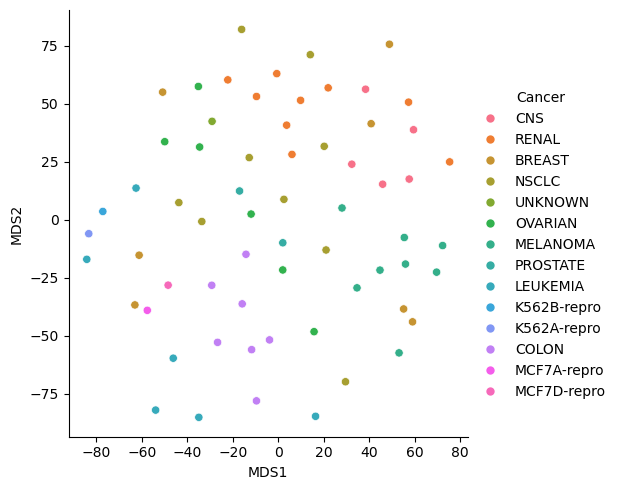
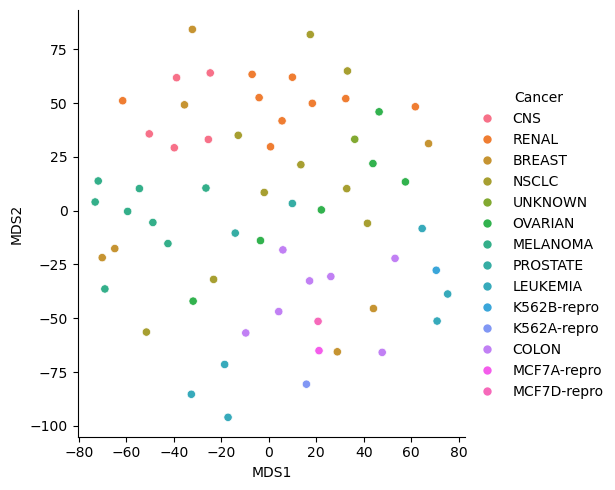
Tried scaling the data before MDS

diff --git a/docs/other-topics.html b/docs/other-topics.html
@@ -198,10 +198,7 @@ code span.wa { color: #60a0b0; font-weight: bold; font-style: italic; } /* Warni
 <ul>
 <li class="chapter" data-level="5.1.1" data-path="other-topics.html"><a href="other-topics.html#k-nn-in-python"><i class="fa fa-check"></i><b>5.1.1</b> K-nn in Python</a></li>
 </ul></li>
-<li class="chapter" data-level="5.2" data-path="other-topics.html"><a href="other-topics.html#mds"><i class="fa fa-check"></i><b>5.2</b> MDS</a>
-<ul>
-<li class="chapter" data-level="5.2.1" data-path="other-topics.html"><a href="other-topics.html#mds-in-python"><i class="fa fa-check"></i><b>5.2.1</b> MDS in Python</a></li>
-</ul></li>
+<li class="chapter" data-level="5.2" data-path="other-topics.html"><a href="other-topics.html#mds"><i class="fa fa-check"></i><b>5.2</b> MDS</a></li>
 </ul></li>
 <li class="divider"></li>
 <li><a href="https://github.com/rstudio/bookdown" target="blank">Published with bookdown</a></li>
@@ -749,40 +746,70 @@ div.sk-label-container:hover .sk-estimator-doc-link.fitted:hover,
 <span id="cb16-4"><a href="other-topics.html#cb16-4" tabindex="-1"></a>graph.mds<span class="sc">$</span>MDS2<span class="ot">=</span><span class="fu">as.numeric</span>(graph.mds<span class="sc">$</span>MDS2)</span>
 <span id="cb16-5"><a href="other-topics.html#cb16-5" tabindex="-1"></a><span class="fu">ggplot</span>(graph.mds,<span class="fu">aes</span>(<span class="at">x=</span>MDS1,<span class="at">y=</span>MDS2,<span class="at">color=</span>cancer))<span class="sc">+</span><span class="fu">geom_point</span>()<span class="sc">+</span><span class="fu">labs</span>(<span class="at">y=</span><span class="st">&quot;MDS2&quot;</span>,<span class="at">x=</span><span class="st">&quot;MDS1&quot;</span>,<span class="at">title=</span><span class="st">&quot;non-metric MDS visualization&quot;</span>)</span></code></pre></div>
 <p><img src="bookdownproj_files/figure-html/MDS-4.png" width="672" /></p>
-<div class="sourceCode" id="cb17"><pre class="sourceCode r"><code class="sourceCode r"><span id="cb17-1"><a href="other-topics.html#cb17-1" tabindex="-1"></a>labs_NCI60<span class="ot">=</span>NCI60<span class="sc">$</span>labs</span></code></pre></div>
-<div id="mds-in-python" class="section level3 hasAnchor" number="5.2.1">
-<h3><span class="header-section-number">5.2.1</span> MDS in Python<a href="other-topics.html#mds-in-python" class="anchor-section" aria-label="Anchor link to header"></a></h3>
-<div class="sourceCode" id="cb18"><pre class="sourceCode python"><code class="sourceCode python"><span id="cb18-1"><a href="other-topics.html#cb18-1" tabindex="-1"></a><span class="im">from</span> sklearn.manifold <span class="im">import</span> MDS</span>
-<span id="cb18-2"><a href="other-topics.html#cb18-2" tabindex="-1"></a><span class="im">import</span> matplotlib.pyplot <span class="im">as</span> plt</span>
-<span id="cb18-3"><a href="other-topics.html#cb18-3" tabindex="-1"></a><span class="im">import</span> pandas <span class="im">as</span> pd</span>
-<span id="cb18-4"><a href="other-topics.html#cb18-4" tabindex="-1"></a><span class="im">import</span> seaborn <span class="im">as</span> sns</span>
-<span id="cb18-5"><a href="other-topics.html#cb18-5" tabindex="-1"></a></span>
-<span id="cb18-6"><a href="other-topics.html#cb18-6" tabindex="-1"></a>NCI60_py<span class="op">=</span>r.ex_MDS</span>
-<span id="cb18-7"><a href="other-topics.html#cb18-7" tabindex="-1"></a>NCI60_labs<span class="op">=</span>r.labs_NCI60</span>
-<span id="cb18-8"><a href="other-topics.html#cb18-8" tabindex="-1"></a>labs<span class="op">=</span>pd.DataFrame(NCI60_labs,columns<span class="op">=</span>[<span class="st">&#39;Cancer&#39;</span>])</span>
-<span id="cb18-9"><a href="other-topics.html#cb18-9" tabindex="-1"></a></span>
-<span id="cb18-10"><a href="other-topics.html#cb18-10" tabindex="-1"></a>mds_py<span class="op">=</span>MDS()</span>
-<span id="cb18-11"><a href="other-topics.html#cb18-11" tabindex="-1"></a>x_metric<span class="op">=</span>mds_py.fit_transform(NCI60_py)</span>
-<span id="cb18-12"><a href="other-topics.html#cb18-12" tabindex="-1"></a>temp<span class="op">=</span>pd.DataFrame(x_metric,columns<span class="op">=</span>[<span class="st">&#39;MDS1&#39;</span>,<span class="st">&#39;MDS2&#39;</span>])</span>
-<span id="cb18-13"><a href="other-topics.html#cb18-13" tabindex="-1"></a>plot_metric<span class="op">=</span>pd.concat([labs,temp],axis<span class="op">=</span><span class="dv">1</span>)</span>
-<span id="cb18-14"><a href="other-topics.html#cb18-14" tabindex="-1"></a>sns.relplot(data<span class="op">=</span>plot_metric,x<span class="op">=</span><span class="st">&#39;MDS1&#39;</span>,y<span class="op">=</span><span class="st">&#39;MDS2&#39;</span>,hue<span class="op">=</span><span class="st">&#39;Cancer&#39;</span>)</span></code></pre></div>
-<p><img src="bookdownproj_files/figure-html/unnamed-chunk-2-1.png" width="309" /></p>
-<div class="sourceCode" id="cb19"><pre class="sourceCode python"><code class="sourceCode python"><span id="cb19-1"><a href="other-topics.html#cb19-1" tabindex="-1"></a>plt.show()</span></code></pre></div>
+<div class="sourceCode" id="cb17"><pre class="sourceCode r"><code class="sourceCode r"><span id="cb17-1"><a href="other-topics.html#cb17-1" tabindex="-1"></a>labs_NCI60<span class="ot">=</span>NCI60<span class="sc">$</span>labs</span>
+<span id="cb17-2"><a href="other-topics.html#cb17-2" tabindex="-1"></a></span>
+<span id="cb17-3"><a href="other-topics.html#cb17-3" tabindex="-1"></a><span class="do">#### With scaling it</span></span>
+<span id="cb17-4"><a href="other-topics.html#cb17-4" tabindex="-1"></a>scale.nci<span class="ot">&lt;-</span><span class="fu">scale</span>(NCI60<span class="sc">$</span>data)</span>
+<span id="cb17-5"><a href="other-topics.html#cb17-5" tabindex="-1"></a></span>
+<span id="cb17-6"><a href="other-topics.html#cb17-6" tabindex="-1"></a>pca_ex<span class="ot">=</span><span class="fu">prcomp</span>(scale.nci,<span class="at">scale=</span>F)</span>
+<span id="cb17-7"><a href="other-topics.html#cb17-7" tabindex="-1"></a>pve <span class="ot">=</span> <span class="dv">100</span> <span class="sc">*</span>pca_ex<span class="sc">$</span>sdev<span class="sc">^</span><span class="dv">2</span><span class="sc">/</span><span class="fu">sum</span>(pca_ex<span class="sc">$</span>sdev<span class="sc">^</span><span class="dv">2</span>)</span>
+<span id="cb17-8"><a href="other-topics.html#cb17-8" tabindex="-1"></a><span class="fu">plot</span>(<span class="fu">cumsum</span>(pve),<span class="at">type=</span><span class="st">&quot;l&quot;</span>)</span></code></pre></div>
+<p><img src="bookdownproj_files/figure-html/MDS-5.png" width="672" /></p>
+<div class="sourceCode" id="cb18"><pre class="sourceCode r"><code class="sourceCode r"><span id="cb18-1"><a href="other-topics.html#cb18-1" tabindex="-1"></a>graph.pca<span class="ot">=</span><span class="fu">data.frame</span>(<span class="fu">cbind</span>(pca_ex<span class="sc">$</span>x[,<span class="dv">1</span><span class="sc">:</span><span class="dv">2</span>],<span class="fu">as.character</span>(NCI60<span class="sc">$</span>labs)))</span>
+<span id="cb18-2"><a href="other-topics.html#cb18-2" tabindex="-1"></a><span class="fu">colnames</span>(graph.pca)<span class="ot">=</span><span class="fu">c</span>(<span class="st">&quot;PCA1&quot;</span>,<span class="st">&quot;PCA2&quot;</span>,<span class="st">&quot;cancer&quot;</span>)</span>
+<span id="cb18-3"><a href="other-topics.html#cb18-3" tabindex="-1"></a>graph.pca<span class="sc">$</span>PCA1<span class="ot">=</span><span class="fu">as.numeric</span>(graph.pca<span class="sc">$</span>PCA1)</span>
+<span id="cb18-4"><a href="other-topics.html#cb18-4" tabindex="-1"></a>graph.pca<span class="sc">$</span>PCA2<span class="ot">=</span><span class="fu">as.numeric</span>(graph.pca<span class="sc">$</span>PCA2)</span>
+<span id="cb18-5"><a href="other-topics.html#cb18-5" tabindex="-1"></a><span class="fu">ggplot</span>(graph.pca,<span class="fu">aes</span>(<span class="at">x=</span>PCA1,<span class="at">y=</span>PCA2,<span class="at">color=</span>cancer))<span class="sc">+</span><span class="fu">geom_point</span>()<span class="sc">+</span><span class="fu">labs</span>(<span class="at">y=</span><span class="st">&quot;PCA2&quot;</span>,<span class="at">x=</span><span class="st">&quot;PCA1&quot;</span>,<span class="at">title=</span><span class="st">&quot;PCA visualization&quot;</span>)</span></code></pre></div>
+<p><img src="bookdownproj_files/figure-html/MDS-6.png" width="672" /></p>
+<div class="sourceCode" id="cb19"><pre class="sourceCode r"><code class="sourceCode r"><span id="cb19-1"><a href="other-topics.html#cb19-1" tabindex="-1"></a>d<span class="ot">=</span><span class="fu">dist</span>(scale.nci)</span>
+<span id="cb19-2"><a href="other-topics.html#cb19-2" tabindex="-1"></a>mds_ex<span class="ot">=</span><span class="fu">cmdscale</span>(d,<span class="at">eig=</span><span class="cn">TRUE</span>, <span class="at">k=</span><span class="dv">2</span>)</span>
+<span id="cb19-3"><a href="other-topics.html#cb19-3" tabindex="-1"></a>graph.mds<span class="ot">=</span><span class="fu">data.frame</span>(<span class="fu">cbind</span>(mds_ex<span class="sc">$</span>points,<span class="fu">as.character</span>(NCI60<span class="sc">$</span>labs)))</span>
+<span id="cb19-4"><a href="other-topics.html#cb19-4" tabindex="-1"></a><span class="fu">colnames</span>(graph.mds)<span class="ot">=</span><span class="fu">c</span>(<span class="st">&quot;MDS1&quot;</span>,<span class="st">&quot;MDS2&quot;</span>,<span class="st">&quot;cancer&quot;</span>)</span>
+<span id="cb19-5"><a href="other-topics.html#cb19-5" tabindex="-1"></a>graph.mds<span class="sc">$</span>MDS1<span class="ot">=</span><span class="fu">as.numeric</span>(graph.mds<span class="sc">$</span>MDS1)</span>
+<span id="cb19-6"><a href="other-topics.html#cb19-6" tabindex="-1"></a>graph.mds<span class="sc">$</span>MDS2<span class="ot">=</span><span class="fu">as.numeric</span>(graph.mds<span class="sc">$</span>MDS2)</span>
+<span id="cb19-7"><a href="other-topics.html#cb19-7" tabindex="-1"></a><span class="fu">ggplot</span>(graph.mds,<span class="fu">aes</span>(<span class="at">x=</span>MDS1,<span class="at">y=</span>MDS2,<span class="at">color=</span>cancer))<span class="sc">+</span><span class="fu">geom_point</span>()<span class="sc">+</span><span class="fu">labs</span>(<span class="at">y=</span><span class="st">&quot;MDS2&quot;</span>,<span class="at">x=</span><span class="st">&quot;MDS1&quot;</span>,<span class="at">title=</span><span class="st">&quot;metric MDS visualization&quot;</span>)</span></code></pre></div>
+<p><img src="bookdownproj_files/figure-html/MDS-7.png" width="672" /></p>
+<div class="sourceCode" id="cb20"><pre class="sourceCode r"><code class="sourceCode r"><span id="cb20-1"><a href="other-topics.html#cb20-1" tabindex="-1"></a>mds_ex<span class="ot">=</span><span class="fu">isoMDS</span>(d, <span class="at">k=</span><span class="dv">2</span>)</span></code></pre></div>
+<pre><code>## initial  value 36.439269 
+## final  value 36.413932 
+## converged</code></pre>
+<div class="sourceCode" id="cb22"><pre class="sourceCode r"><code class="sourceCode r"><span id="cb22-1"><a href="other-topics.html#cb22-1" tabindex="-1"></a>graph.mds<span class="ot">=</span><span class="fu">data.frame</span>(<span class="fu">cbind</span>(mds_ex<span class="sc">$</span>points,<span class="fu">as.character</span>(NCI60<span class="sc">$</span>labs)))</span>
+<span id="cb22-2"><a href="other-topics.html#cb22-2" tabindex="-1"></a><span class="fu">colnames</span>(graph.mds)<span class="ot">=</span><span class="fu">c</span>(<span class="st">&quot;MDS1&quot;</span>,<span class="st">&quot;MDS2&quot;</span>,<span class="st">&quot;cancer&quot;</span>)</span>
+<span id="cb22-3"><a href="other-topics.html#cb22-3" tabindex="-1"></a>graph.mds<span class="sc">$</span>MDS1<span class="ot">=</span><span class="fu">as.numeric</span>(graph.mds<span class="sc">$</span>MDS1)</span>
+<span id="cb22-4"><a href="other-topics.html#cb22-4" tabindex="-1"></a>graph.mds<span class="sc">$</span>MDS2<span class="ot">=</span><span class="fu">as.numeric</span>(graph.mds<span class="sc">$</span>MDS2)</span>
+<span id="cb22-5"><a href="other-topics.html#cb22-5" tabindex="-1"></a><span class="fu">ggplot</span>(graph.mds,<span class="fu">aes</span>(<span class="at">x=</span>MDS1,<span class="at">y=</span>MDS2,<span class="at">color=</span>cancer))<span class="sc">+</span><span class="fu">geom_point</span>()<span class="sc">+</span><span class="fu">labs</span>(<span class="at">y=</span><span class="st">&quot;MDS2&quot;</span>,<span class="at">x=</span><span class="st">&quot;MDS1&quot;</span>,<span class="at">title=</span><span class="st">&quot;non-metric MDS visualization&quot;</span>)</span></code></pre></div>
+<p><img src="bookdownproj_files/figure-html/MDS-8.png" width="672" />
+### MDS in Python</p>
+<div class="sourceCode" id="cb23"><pre class="sourceCode python"><code class="sourceCode python"><span id="cb23-1"><a href="other-topics.html#cb23-1" tabindex="-1"></a><span class="im">from</span> sklearn.manifold <span class="im">import</span> MDS</span>
+<span id="cb23-2"><a href="other-topics.html#cb23-2" tabindex="-1"></a><span class="im">import</span> matplotlib.pyplot <span class="im">as</span> plt</span>
+<span id="cb23-3"><a href="other-topics.html#cb23-3" tabindex="-1"></a><span class="im">import</span> pandas <span class="im">as</span> pd</span>
+<span id="cb23-4"><a href="other-topics.html#cb23-4" tabindex="-1"></a><span class="im">import</span> seaborn <span class="im">as</span> sns</span>
+<span id="cb23-5"><a href="other-topics.html#cb23-5" tabindex="-1"></a></span>
+<span id="cb23-6"><a href="other-topics.html#cb23-6" tabindex="-1"></a>NCI60_py<span class="op">=</span>r.ex_MDS</span>
+<span id="cb23-7"><a href="other-topics.html#cb23-7" tabindex="-1"></a>NCI60_labs<span class="op">=</span>r.labs_NCI60</span>
+<span id="cb23-8"><a href="other-topics.html#cb23-8" tabindex="-1"></a>labs<span class="op">=</span>pd.DataFrame(NCI60_labs,columns<span class="op">=</span>[<span class="st">&#39;Cancer&#39;</span>])</span>
+<span id="cb23-9"><a href="other-topics.html#cb23-9" tabindex="-1"></a></span>
+<span id="cb23-10"><a href="other-topics.html#cb23-10" tabindex="-1"></a>mds_py<span class="op">=</span>MDS()</span>
+<span id="cb23-11"><a href="other-topics.html#cb23-11" tabindex="-1"></a>x_metric<span class="op">=</span>mds_py.fit_transform(NCI60_py)</span>
+<span id="cb23-12"><a href="other-topics.html#cb23-12" tabindex="-1"></a>temp<span class="op">=</span>pd.DataFrame(x_metric,columns<span class="op">=</span>[<span class="st">&#39;MDS1&#39;</span>,<span class="st">&#39;MDS2&#39;</span>])</span>
+<span id="cb23-13"><a href="other-topics.html#cb23-13" tabindex="-1"></a>plot_metric<span class="op">=</span>pd.concat([labs,temp],axis<span class="op">=</span><span class="dv">1</span>)</span>
+<span id="cb23-14"><a href="other-topics.html#cb23-14" tabindex="-1"></a>sns.relplot(data<span class="op">=</span>plot_metric,x<span class="op">=</span><span class="st">&#39;MDS1&#39;</span>,y<span class="op">=</span><span class="st">&#39;MDS2&#39;</span>,hue<span class="op">=</span><span class="st">&#39;Cancer&#39;</span>)</span></code></pre></div>
+<p><img src="bookdownproj_files/figure-html/unnamed-chunk-2-1.png" width="308" /></p>
+<div class="sourceCode" id="cb24"><pre class="sourceCode python"><code class="sourceCode python"><span id="cb24-1"><a href="other-topics.html#cb24-1" tabindex="-1"></a>plt.show()</span></code></pre></div>
 <p><img src="bookdownproj_files/figure-html/unnamed-chunk-2-2.png" width="615" /></p>
-<div class="sourceCode" id="cb20"><pre class="sourceCode python"><code class="sourceCode python"><span id="cb20-1"><a href="other-topics.html#cb20-1" tabindex="-1"></a>mds2_py<span class="op">=</span>MDS(metric<span class="op">=</span><span class="va">False</span>,normalized_stress<span class="op">=</span><span class="va">True</span>)</span>
-<span id="cb20-2"><a href="other-topics.html#cb20-2" tabindex="-1"></a>x_nonmetric<span class="op">=</span>mds2_py.fit_transform(NCI60_py)</span>
-<span id="cb20-3"><a href="other-topics.html#cb20-3" tabindex="-1"></a>temp1<span class="op">=</span>pd.DataFrame(x_nonmetric,columns<span class="op">=</span>[<span class="st">&#39;MDS1&#39;</span>,<span class="st">&#39;MDS2&#39;</span>])</span>
-<span id="cb20-4"><a href="other-topics.html#cb20-4" tabindex="-1"></a>plot_nonmetric<span class="op">=</span>pd.concat([labs,temp1],axis<span class="op">=</span><span class="dv">1</span>)</span>
-<span id="cb20-5"><a href="other-topics.html#cb20-5" tabindex="-1"></a>sns.relplot(data<span class="op">=</span>plot_nonmetric,x<span class="op">=</span><span class="st">&#39;MDS1&#39;</span>,y<span class="op">=</span><span class="st">&#39;MDS2&#39;</span>,hue<span class="op">=</span><span class="st">&#39;Cancer&#39;</span>)</span></code></pre></div>
+<div class="sourceCode" id="cb25"><pre class="sourceCode python"><code class="sourceCode python"><span id="cb25-1"><a href="other-topics.html#cb25-1" tabindex="-1"></a>mds2_py<span class="op">=</span>MDS(metric<span class="op">=</span><span class="va">False</span>,normalized_stress<span class="op">=</span><span class="va">True</span>)</span>
+<span id="cb25-2"><a href="other-topics.html#cb25-2" tabindex="-1"></a>x_nonmetric<span class="op">=</span>mds2_py.fit_transform(NCI60_py)</span>
+<span id="cb25-3"><a href="other-topics.html#cb25-3" tabindex="-1"></a>temp1<span class="op">=</span>pd.DataFrame(x_nonmetric,columns<span class="op">=</span>[<span class="st">&#39;MDS1&#39;</span>,<span class="st">&#39;MDS2&#39;</span>])</span>
+<span id="cb25-4"><a href="other-topics.html#cb25-4" tabindex="-1"></a>plot_nonmetric<span class="op">=</span>pd.concat([labs,temp1],axis<span class="op">=</span><span class="dv">1</span>)</span>
+<span id="cb25-5"><a href="other-topics.html#cb25-5" tabindex="-1"></a>sns.relplot(data<span class="op">=</span>plot_nonmetric,x<span class="op">=</span><span class="st">&#39;MDS1&#39;</span>,y<span class="op">=</span><span class="st">&#39;MDS2&#39;</span>,hue<span class="op">=</span><span class="st">&#39;Cancer&#39;</span>)</span></code></pre></div>
 <p><img src="bookdownproj_files/figure-html/unnamed-chunk-2-3.png" width="308" /></p>
-<div class="sourceCode" id="cb21"><pre class="sourceCode python"><code class="sourceCode python"><span id="cb21-1"><a href="other-topics.html#cb21-1" tabindex="-1"></a>plt.show()</span></code></pre></div>
+<div class="sourceCode" id="cb26"><pre class="sourceCode python"><code class="sourceCode python"><span id="cb26-1"><a href="other-topics.html#cb26-1" tabindex="-1"></a>plt.show()</span></code></pre></div>
 <p><img src="bookdownproj_files/figure-html/unnamed-chunk-2-4.png" width="615" /></p>
-<div class="sourceCode" id="cb22"><pre class="sourceCode python"><code class="sourceCode python"><span id="cb22-1"><a href="other-topics.html#cb22-1" tabindex="-1"></a>stress <span class="op">=</span> mds2_py.stress_</span>
-<span id="cb22-2"><a href="other-topics.html#cb22-2" tabindex="-1"></a><span class="bu">print</span>(stress)</span></code></pre></div>
-<pre><code>## 0.2945975592109764</code></pre>
+<div class="sourceCode" id="cb27"><pre class="sourceCode python"><code class="sourceCode python"><span id="cb27-1"><a href="other-topics.html#cb27-1" tabindex="-1"></a>stress <span class="op">=</span> mds2_py.stress_</span>
+<span id="cb27-2"><a href="other-topics.html#cb27-2" tabindex="-1"></a><span class="bu">print</span>(stress)</span></code></pre></div>
+<pre><code>## 0.294575134178839</code></pre>
 <p>Note that the stress value should only be calculated for nonMetric MDS. From the scikit-learn.org webpage “A value of 0 indicates”perfect” fit, 0.025 excellent, 0.05 good, 0.1 fair, and 0.2 poor [1]“. Thus, this projection was not that good.</p>
 
-</div>
 </div>
 </div>
             </section>

diff --git a/docs/404.html b/docs/404.html
@@ -198,10 +198,7 @@ code span.wa { color: #60a0b0; font-weight: bold; font-style: italic; } /* Warni
 <ul>
 <li class="chapter" data-level="5.1.1" data-path="other-topics.html"><a href="other-topics.html#k-nn-in-python"><i class="fa fa-check"></i><b>5.1.1</b> K-nn in Python</a></li>
 </ul></li>
-<li class="chapter" data-level="5.2" data-path="other-topics.html"><a href="other-topics.html#mds"><i class="fa fa-check"></i><b>5.2</b> MDS</a>
-<ul>
-<li class="chapter" data-level="5.2.1" data-path="other-topics.html"><a href="other-topics.html#mds-in-python"><i class="fa fa-check"></i><b>5.2.1</b> MDS in Python</a></li>
-</ul></li>
+<li class="chapter" data-level="5.2" data-path="other-topics.html"><a href="other-topics.html#mds"><i class="fa fa-check"></i><b>5.2</b> MDS</a></li>
 </ul></li>
 <li class="divider"></li>
 <li><a href="https://github.com/rstudio/bookdown" target="blank">Published with bookdown</a></li>
